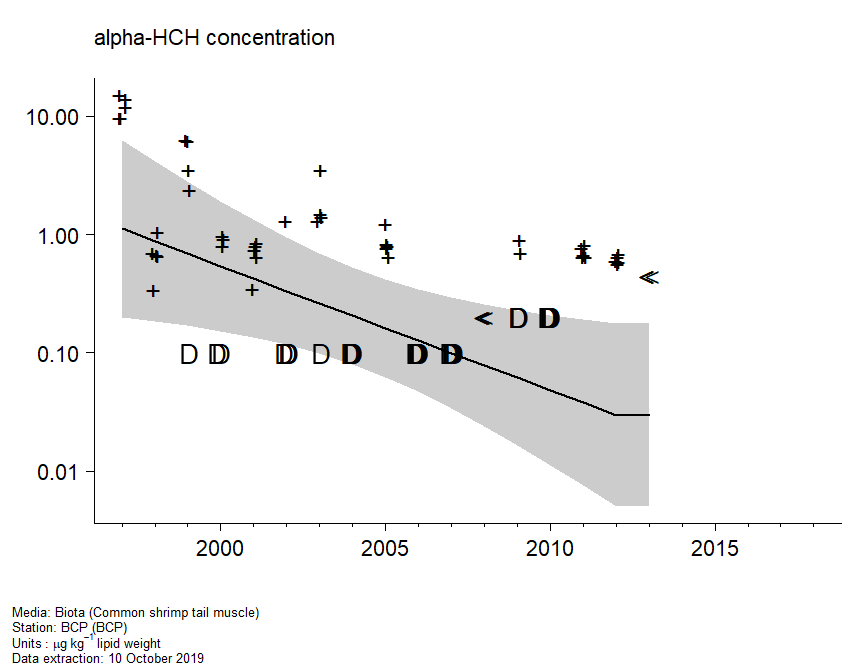
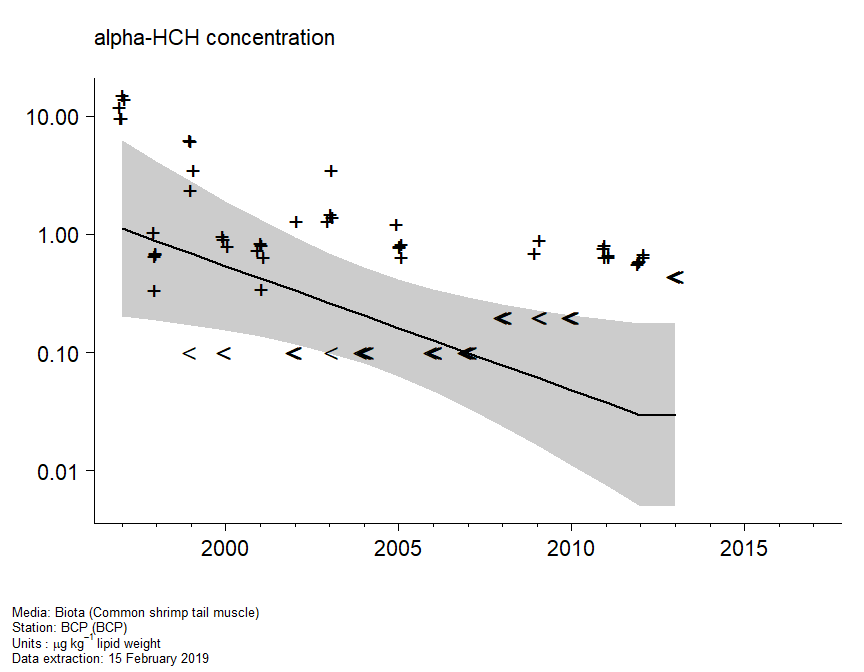
Now  using correct data set in readme

diff --git a/README.md b/README.md
@@ -155,7 +155,7 @@ Units: μg kg<sup>-1</sup> lipid weight
 
 <li>
 
-Extraction: 10 October 2019
+Extraction: 15 February 2019
 
 </li>
 
@@ -193,10 +193,10 @@ Analysis of variance
 
 ``` 
                 Df      AIC     AICc   Log lik Deviance     Chisq Chi df Pr(>Chisq)
-mean             1 204.6195 206.8695 -99.30974 198.6195        NA     NA         NA
-linear           2 202.0379 206.6093 -97.01896 194.0379 4.5815551      1 0.03231787
-smooth (df = 2)  3 198.5272 206.8605 -94.26358 188.5272 5.5107525      1 0.01889991
-smooth (df = 3)  4 199.6921 214.0921 -93.84607 187.6921 0.8350185      1 0.36082538
+mean             1 204.5347 206.7847 -99.26734 198.5347        NA     NA         NA
+linear           2 201.9493 206.5207 -96.97464 193.9493 4.5854093      1 0.03224527
+smooth (df = 2)  3 198.4669 206.8003 -94.23347 188.4669 5.4823321      1 0.01920961
+smooth (df = 3)  4 199.6460 214.0460 -93.82299 187.6460 0.8209623      1 0.36489896
 ```
 
 <br>
@@ -205,8 +205,8 @@ Change in log concentration
 
 ``` 
               Year start Year end  Fit start   Fit end    Change Std error         t   Pr(>|t|)
-overall             1997     2013  0.1088056 -3.517836 -3.626641  1.608194 -2.255102 0.05057986
-last 20 years       1999     2013 -0.3747466 -3.517836 -3.143089  1.393768 -2.255102 0.05057986
+overall             1997     2013  0.1113085 -3.522523 -3.633832  1.606903 -2.261388 0.05006289
+last 20 years       1998     2013 -0.1309469 -3.522523 -3.391576  1.499776 -2.261388 0.05006289
 ```
 
 <br>
@@ -217,7 +217,8 @@ No assessment criteria <br>
 
 ### how to build this file
 
-this file was created using
+this file was created using (requires access to
+`assessment_platform.RData`)
 
 ``` r
 rmarkdown::render("README.Rmd")
